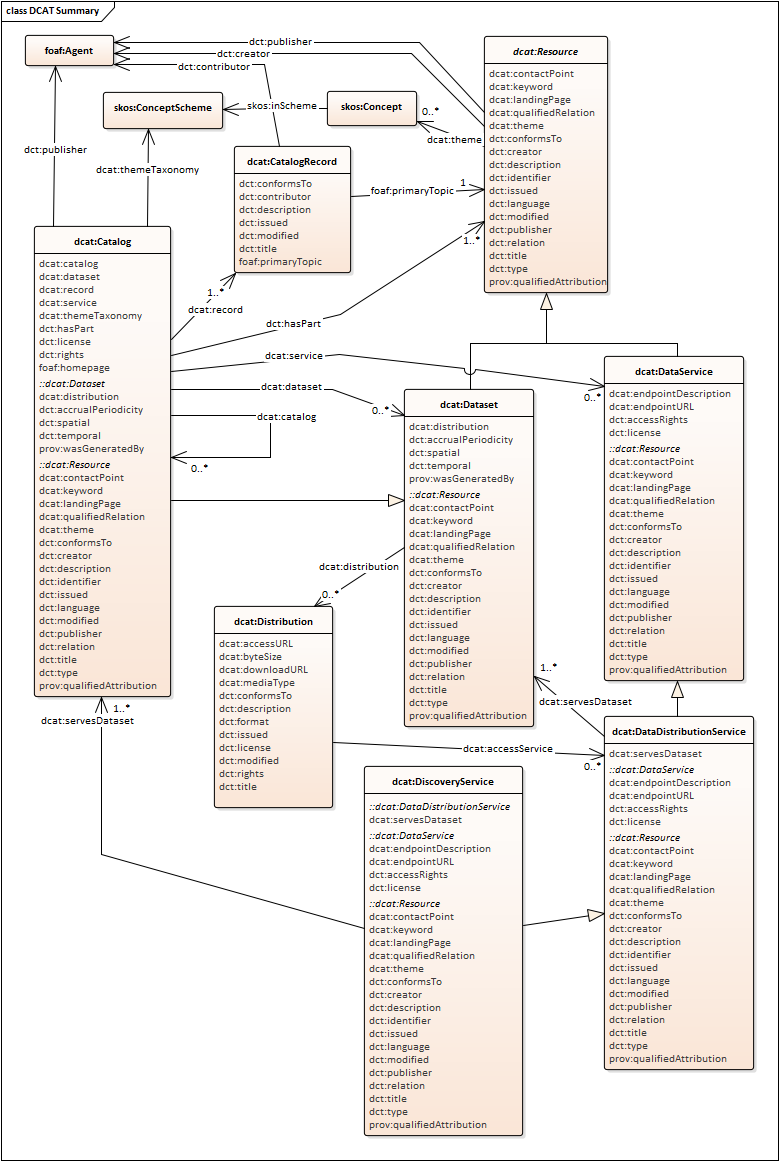
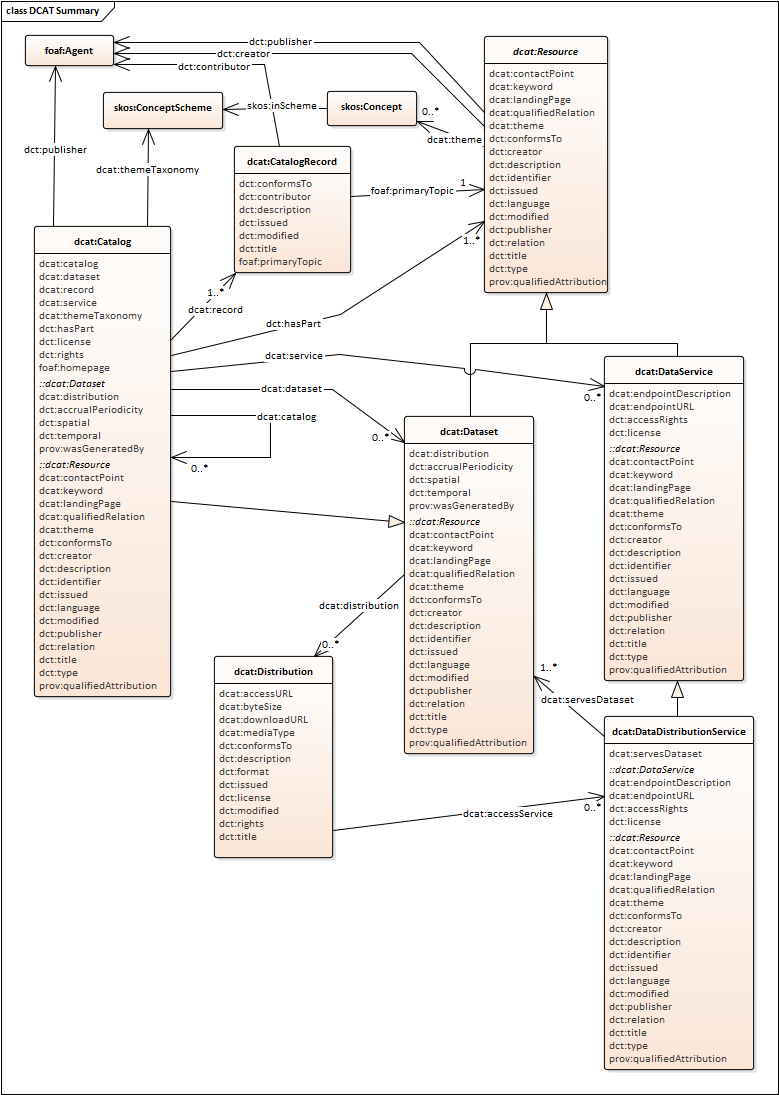
Improve usage/scope notes drop DiscoveryService class

Changed region(s): [[0.0, 0.0, 0.9859, 0.9936], [0.2157, 0.3726, 0.2773, 0.4347], [0.5237, 0.2174, 0.5546, 0.2484]]

diff --git a/index.html b/index.html
@@ -168,10 +168,10 @@
           <li>
             <code><a href="#Class:DataTransformationService">dcat:DataTransformationService</a></code> represents a service that can transform a dataset, e.g. spatial coordinate transformation; interpolation or resampling of a dataset.
           </li>
-        -->
         <li>
           <code><a href="#Class:Discovery_Service">dcat:DiscoveryService</a></code> represents a description of a kind of data distribution service that provides access to one or more catalogs to support discovery functions.
         </li>
+      -->
         <li>
           <code><a href="#Class:Catalog_Record">dcat:CatalogRecord</a></code> represents a metadata item in the catalog, primarily concerning the registration information, such as who added the item and when.
         </li>
@@ -203,7 +203,7 @@
       A data service typically provides selection, extraction, combination, processing or transformation operations over datasets that might be hosted locally or remote to the service.
       The result of a request to a data service is a representation of a dataset or catalog.
       A <b>data distribution service</b> is a kind of data service that provides the means to select and download a distribution of a dataset or subset.
-      A <b>discovery service</b> is a kind of data distribution service that provides the means to find the description of a suitable dataset, often through a portal or catalog service.
+      A data discovery service is a kind of data service that provides the means to find the description of a suitable dataset, often through a portal or catalog service.
       Other kinds of data service might include data transformation services such as coordinate transformation services, re-sampling and interpolation services, and various data processing services.
       These are outside the scope of the current DCAT vocabulary.
       A data service might be tied to specific datasets, or its source data might be configured at request- or run-time.
@@ -1412,8 +1412,8 @@
         <p class="note">
             <a href="https://www.w3.org/TR/dcat-ucr/#RDSC">Dataset citation</a> is one of the requirements identified for the DCAT revision.
             Data citation is the practice of referencing data in a similar way as when providing bibliographic references, acknowledging data
-            as a first class output in any investigative process. Data citation offers multiple benefits, such as crediting those producing the data,
-            facilitating data discovery, supporting tracking the impact and reuse of data.
+            as a first class output in any investigative process.
+            Data citation offers multiple benefits, such as crediting those producing the data, facilitating data discovery, supporting tracking the impact and reuse of data.
 
             To support data citation, the dataset description should include at a minimum: the dataset identifier, the dataset creator (added in this DCAT revision
             as part of the properties recommended for Dataset), the dataset title, the dataset publisher and the dataset release date.
@@ -1879,7 +1879,8 @@
             <tr><td class="prop">Definition:</td><td>A site or end-point providing operations related to the discovery of, access to, or processing functions on, data or related resources</td></tr>
             <tr><td class="prop">Sub class of:</td><td><a href="http://www.w3.org/ns/dcat#Resource">dcat:Resource</a></td></tr>
             <tr><td class="prop">Sub class of:</td><td><a href="http://purl.org/dc/dcmitype/Service">dctype:Service</a></td></tr>
-            <tr><td class="prop">Usage note:</td><td><code><a href="#Class:DataService">dcat:DataService</a></code> is an extension point for the description of any kind of data service. Currently only one subclass is defined - DataDistributionService - but additional subclasses may be defined in a DCAT application profile or other DCAT application for catalogs of other kinds of services</td></tr>
+            <tr><td class="prop">Usage note:</td><td><code>The class <a href="#Class:DataService">dcat:DataService</a></code> is an extension point for the description of any kind of data service. Currently only one subclass is defined - DataDistributionService - but additional subclasses may be defined in a DCAT application profile or other DCAT application for catalogs of other kinds of services</td></tr>
+            <tr><td class="prop">Usage note:</td><td><code>The kind of service can be indicated using the <a href="http://purl.org/dc/terms/type">dct:type</a> property. Its value may be taken from a controlled vocabulary such as the <a href="https://inspire.ec.europa.eu/metadata-codelist/SpatialDataServiceType/">INSPIRE spatial data service type vocabulary</a></td></tr>
             </tbody>
         </table>
 
@@ -1974,7 +1975,8 @@
             <tbody>
             <tr><td class="prop">Definition:</td><td>A site or end-point that provides access to distributions of datasets</td></tr>
             <tr><td class="prop">Sub class of:</td><td><a href="http://www.w3.org/ns/dcat#DataService">dcat:DataService</a></td></tr>
-            <tr><td class="prop">Usage note:</td><td>A <i>Data Discovery Service</i> is a DataDistributionService that supports discovery of data, usually by providing access to a Catalog. In that context least one <a href="http://www.w3.org/ns/dcat#Catalog">dcat:Catalog</a> would appear as the object of its <a href="http://www.w3.org/ns/dcat#servesDataset">dcat:servesDataset</a> property</td></tr>
+            <tr><td class="prop">Usage note:</td><td><code>A DataDistributionService is usually bound to one or more specified Datasets, as indicated by the <a href="http://www.w3.org/ns/dcat#servesDataset">dcat:servesDataset</a> property.</td></tr>
+            <tr><td class="prop">Usage note:</td><td>A <i>Data Discovery Service</i> supports discovery of data, usually by providing access to a Catalog. In that context the Data Discovery Service can be understood as a DataDistributionService in which least one <a href="http://www.w3.org/ns/dcat#Catalog">dcat:Catalog</a> appears as the object of its <a href="http://www.w3.org/ns/dcat#servesDataset">dcat:servesDataset</a> property</td></tr>
             </tbody>
         </table>
 
@@ -1991,13 +1993,10 @@
 
     </section> <!-- end class DataDistributionService -->
 
-
+<!--
     <section id="Class:Discovery_Service">
         <h3>Class: Discovery Service</h3>
 
-        <p class="issue" data-number="432">
-          Dropping this named class is under consideration.
-        </p>
         <p>The following properties are inherited from the super-class <a href="http://www.w3.org/ns/dcat#DataService">dcat:DataService</a>:
             <a href="#Property:dataservice_endpointdescription">endpointDescription</a>,
             <a href="#Property:dataservice_endpointurl">endpointURL</a>,
@@ -2038,7 +2037,7 @@
         </p>
 
     </section> <!-- end class DiscoveryService -->
-
+-->
 
 
     <section id="Class:Concept_Scheme">
